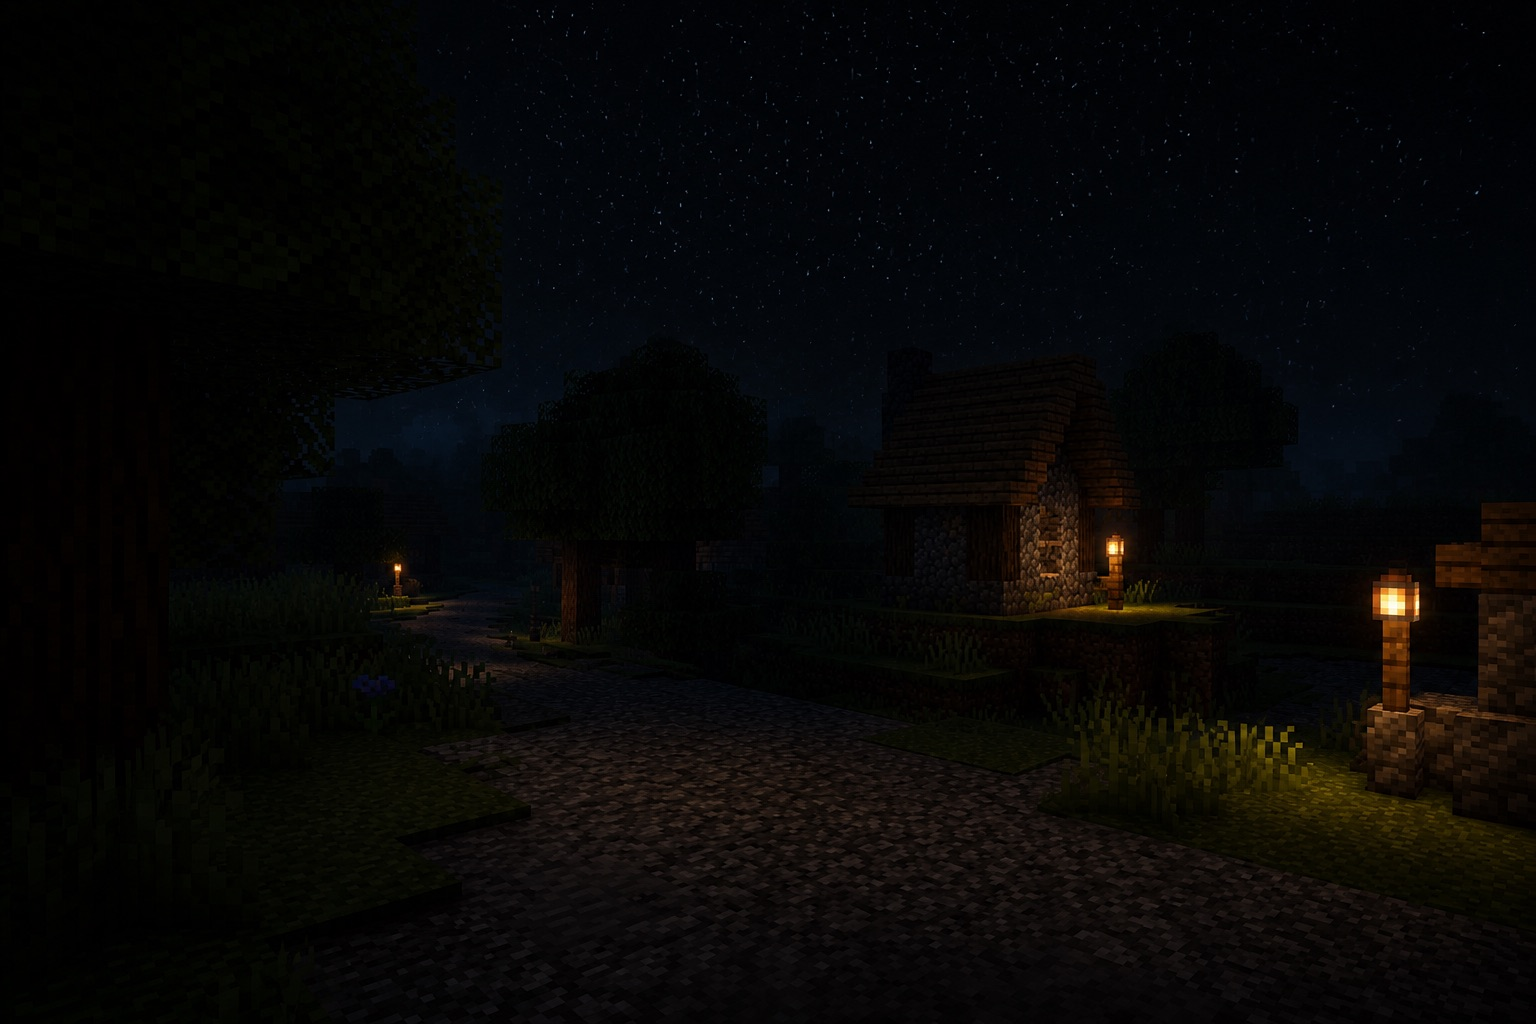
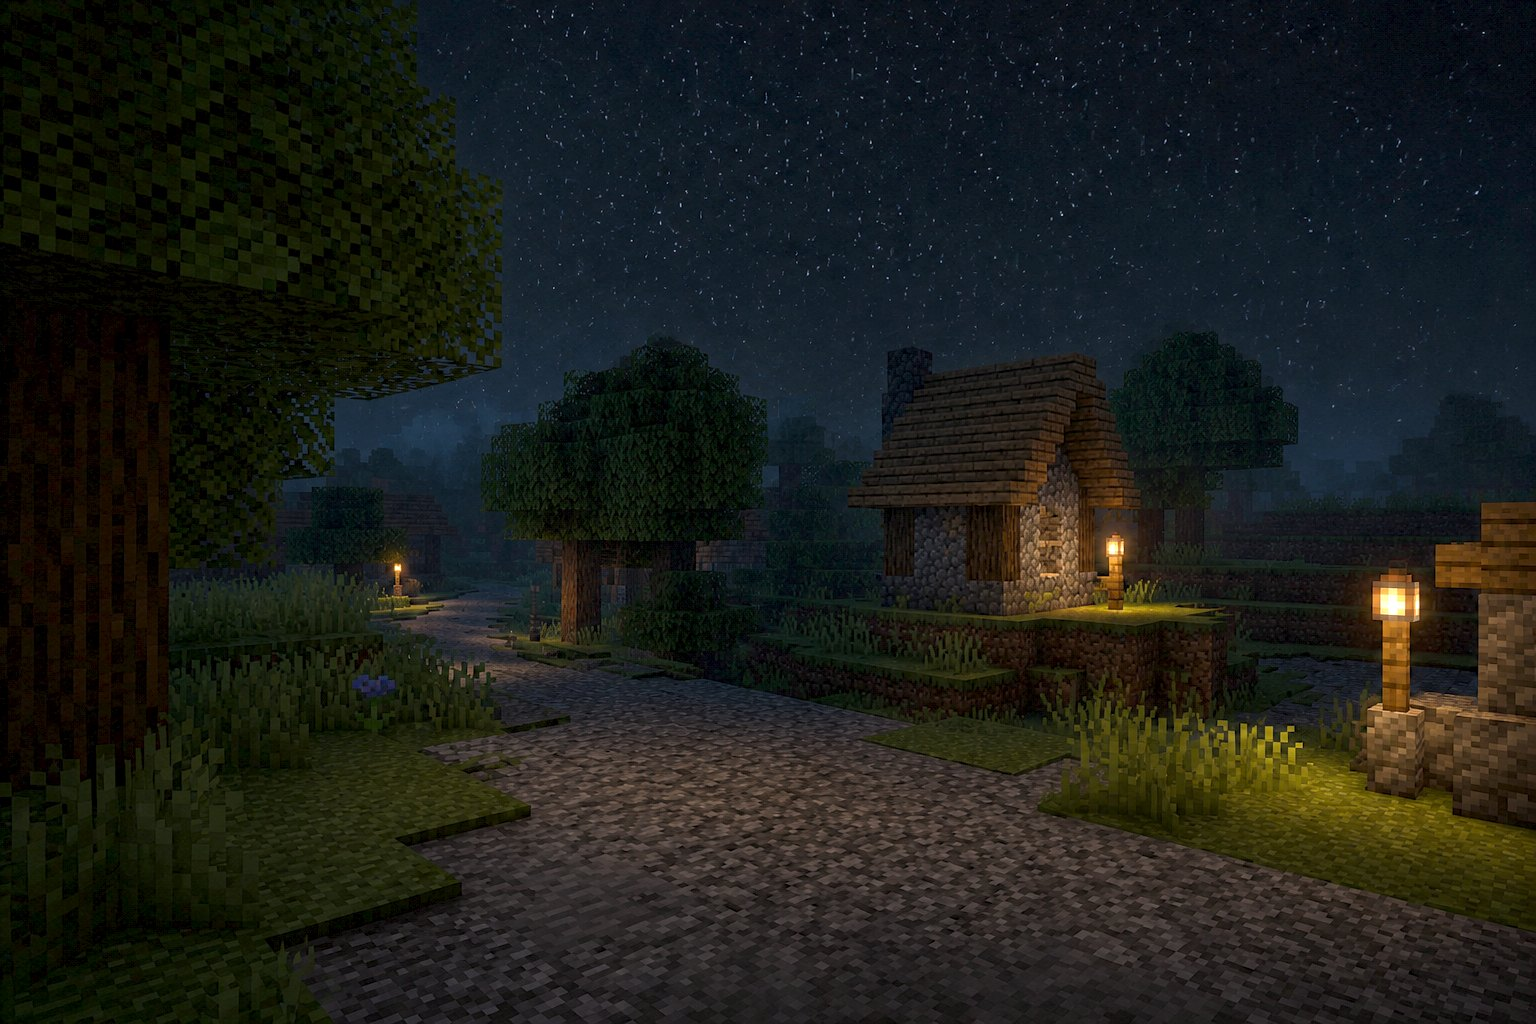
Adding more images

diff --git a/app/helpers/channelHelper.js b/app/helpers/channelHelper.js
@@ -6,10 +6,24 @@ import { fileURLToPath } from 'node:url';
 import { CHANNEL_ID, CHAT_ID } from '../constants/access.js';
 import { HTML } from './copyHelper.js';
 
+function weatherAsset(name) {
+  return fileURLToPath(new URL(`../assets/weather/${name}.jpg`, import.meta.url));
+}
+
 const WEATHER_IMAGES = {
-  clear: fileURLToPath(new URL('../assets/weather/clear.jpg', import.meta.url)),
-  rain: fileURLToPath(new URL('../assets/weather/rain.jpg', import.meta.url)),
-  thunder: fileURLToPath(new URL('../assets/weather/thunder.jpg', import.meta.url)),
+  clear: weatherAsset('clear'),
+  rain: weatherAsset('rain'),
+  thunder: weatherAsset('thunder'),
+};
+
+const CLEAR_PHASE_IMAGES = {
+  sunrise: weatherAsset('clear-sunrise'),
+  morning: weatherAsset('clear-morning'),
+  noon: weatherAsset('clear-noon'),
+  day: weatherAsset('clear'),
+  sunset: weatherAsset('clear-sunset'),
+  night: weatherAsset('clear-night'),
+  midnight: weatherAsset('clear-midnight'),
 };
 
 const MOON_IMAGES = {
@@ -55,7 +69,13 @@ async function imagePath(map, key) {
   }
 }
 
-function weatherImagePath(key) {
+async function weatherImagePath(key, phase) {
+  if (key === 'clear') {
+    const timed = await imagePath(CLEAR_PHASE_IMAGES, phase);
+    if (timed) {
+      return timed;
+    }
+  }
   return imagePath(WEATHER_IMAGES, key);
 }
 
@@ -121,8 +141,8 @@ export async function postPhotoToChannel(telegram, photoPath, caption, extra = H
   }
 }
 
-export async function postWeatherChange(telegram, caption, weatherKey) {
-  const image = await weatherImagePath(weatherKey);
+export async function postWeatherChange(telegram, caption, weatherKey, daytime) {
+  const image = await weatherImagePath(weatherKey, daytime?.phase);
   if (image) {
     await postPhotoToChannel(telegram, image, caption);
     return;

diff --git a/app/helpers/channelWatcherHelper.js b/app/helpers/channelWatcherHelper.js
@@ -74,6 +74,7 @@ function startWeatherWatcher(telegram) {
         telegram,
         weatherChangedText(previous, weather, daytime, parsePlayerList(listRaw)),
         weather.key,
+        daytime,
       );
     } catch (err) {
       console.warn('[weather]', err.message);
